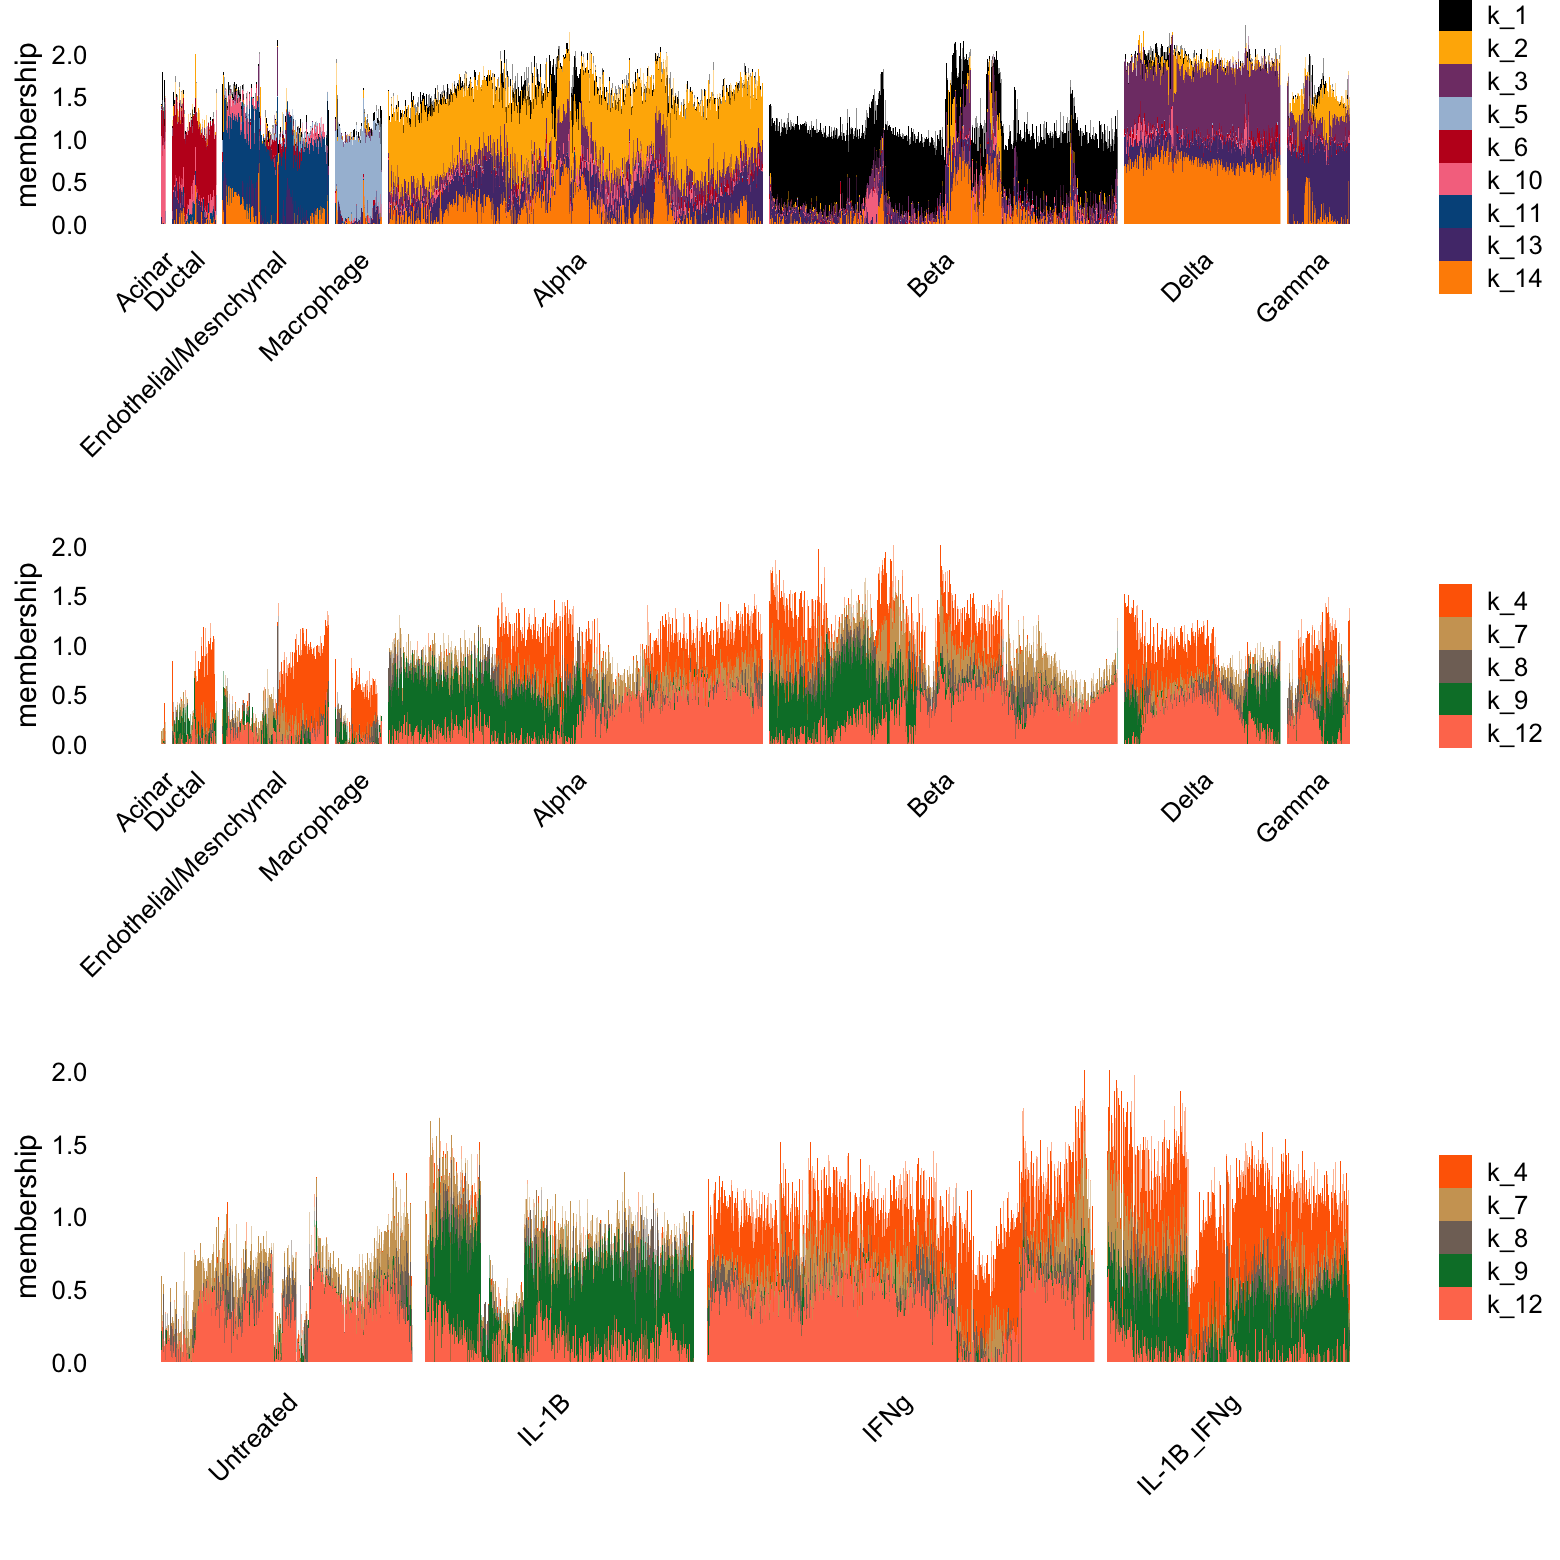
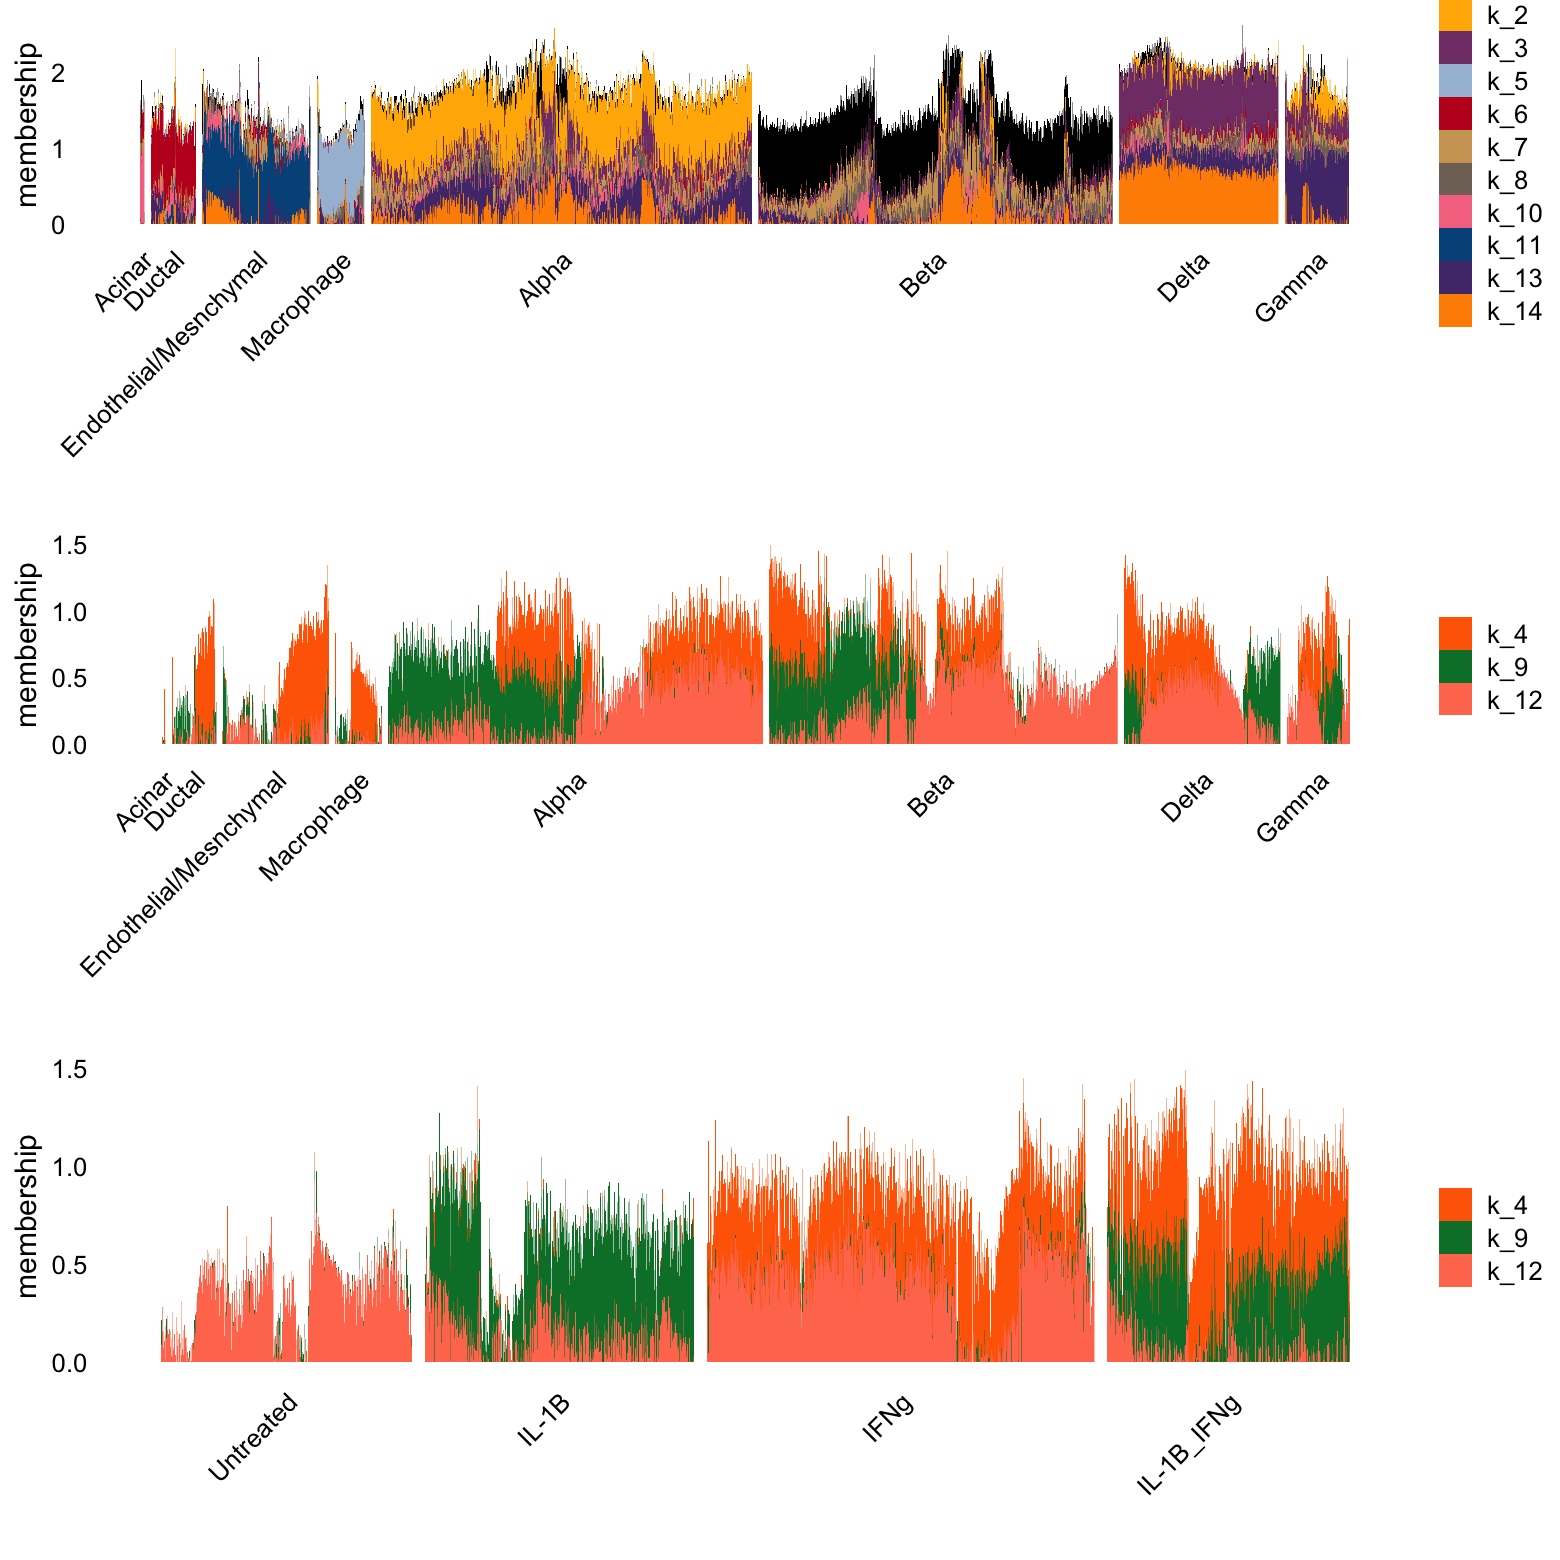
changed some factor assignments

diff --git a/docs/pancreas_cytokine_mf_comparison.html b/docs/pancreas_cytokine_mf_comparison.html
@@ -436,15 +436,15 @@ project makes it easier to run your code on other machines.</p>
 <div class="panel panel-default">
 <div class="panel-heading">
 <p class="panel-title">
-<a data-toggle="collapse" data-parent="#workflowr-checks" href="#strongRepositoryversionstrongahrefhttpsgithubcomstephenslabsinglecelljamboreetreeeb06be51c3f3b3bd8e3392eec83e519c30f6cc4btargetblankeb06be5a">
+<a data-toggle="collapse" data-parent="#workflowr-checks" href="#strongRepositoryversionstrongahrefhttpsgithubcomstephenslabsinglecelljamboreetreebd435d9166c4b46a2bd5a95fa79cbad023d63f61targetblankbd435d9a">
 <span class="glyphicon glyphicon-ok text-success"
 aria-hidden="true"></span> <strong>Repository version:</strong>
-<a href="https://github.com/stephenslab/single-cell-jamboree/tree/eb06be51c3f3b3bd8e3392eec83e519c30f6cc4b" target="_blank">eb06be5</a>
+<a href="https://github.com/stephenslab/single-cell-jamboree/tree/bd435d9166c4b46a2bd5a95fa79cbad023d63f61" target="_blank">bd435d9</a>
 </a>
 </p>
 </div>
 <div
[2 lines of base64/hex data omitted]
 class="panel-collapse collapse">
 <div class="panel-body">
 <p>
@@ -454,7 +454,7 @@ reproducibility.
 </p>
 <p>
 The results in this page were generated with repository version
-<a href="https://github.com/stephenslab/single-cell-jamboree/tree/eb06be51c3f3b3bd8e3392eec83e519c30f6cc4b" target="_blank">eb06be5</a>.
+<a href="https://github.com/stephenslab/single-cell-jamboree/tree/bd435d9166c4b46a2bd5a95fa79cbad023d63f61" target="_blank">bd435d9</a>.
 See the <em>Past versions</em> tab to see a history of the changes made
 to the R Markdown and HTML files.
 </p>
@@ -525,6 +525,40 @@ Message
 </tr>
 </thead>
 <tbody>
+<tr>
+<td>
+Rmd
+</td>
+<td>
+<a href="https://github.com/stephenslab/single-cell-jamboree/blob/bd435d9166c4b46a2bd5a95fa79cbad023d63f61/analysis/pancreas_cytokine_mf_comparison.Rmd" target="_blank">bd435d9</a>
+</td>
+<td>
+Eric Weine
+</td>
+<td>
+2025-07-07
+</td>
+<td>
+added K = 14 fits
+</td>
+</tr>
+<tr>
+<td>
+html
+</td>
+<td>
+<a href="https://rawcdn.githack.com/stephenslab/single-cell-jamboree/bd435d9166c4b46a2bd5a95fa79cbad023d63f61/docs/pancreas_cytokine_mf_comparison.html" target="_blank">bd435d9</a>
+</td>
+<td>
+Eric Weine
+</td>
+<td>
+2025-07-07
+</td>
+<td>
+added K = 14 fits
+</td>
+</tr>
 <tr>
 <td>
 Rmd
@@ -776,12 +810,12 @@ i &lt;- c(sample(which(clusters == &quot;Beta&quot;),800),
        which(clusters != &quot;Beta&quot;))
 L &lt;- poisson2multinom(tm_k12)$L
 p1 &lt;- structure_plot(L[i,],grouping = clusters[i],gap = 15,n = Inf,
-                     topics = celltype_topics,colors = topic_colors)    
+                     topics = celltype_topics,colors = topic_colors)$plot   
 p2 &lt;- structure_plot(L[i,],grouping = clusters[i],gap = 15,n = Inf,
-                     topics = other_topics,colors = topic_colors)
+                     topics = other_topics,colors = topic_colors)$plot
 p3 &lt;- structure_plot(L[i,],grouping = conditions[i],gap = 20,n = Inf,
-                     topics = other_topics,colors = topic_colors)
-plot_grid(p1$plot,p2$plot,p3$plot,nrow = 3,ncol = 1,rel_heights = c(3.3,3,2))</code></pre>
+                     topics = other_topics,colors = topic_colors)$plot
+plot_grid(p1,p2,p3,nrow = 3,ncol = 1,rel_heights = c(3.3,3,2))</code></pre>
 <p><img src="figure/pancreas_cytokine_mf_comparison.Rmd/structure-plot-topic-model-k12-1.png" width="780" style="display: block; margin: auto;" /></p>
 <p>
 <button type="button" class="btn btn-default btn-xs btn-workflowr btn-workflowr-fig" data-toggle="collapse" data-target="#fig-structure-plot-topic-model-k12-1">
@@ -805,6 +839,17 @@ Date
 </tr>
 </thead>
 <tbody>
+<tr>
+<td>
+<a href="https://github.com/stephenslab/single-cell-jamboree/blob/bd435d9166c4b46a2bd5a95fa79cbad023d63f61/docs/figure/pancreas_cytokine_mf_comparison.Rmd/structure-plot-topic-model-k12-1.png" target="_blank">bd435d9</a>
+</td>
+<td>
+Eric Weine
+</td>
+<td>
+2025-07-07
+</td>
+</tr>
 <tr>
 <td>
 <a href="https://github.com/stephenslab/single-cell-jamboree/blob/3cf2b9b050e00d8ea58e362a1994724debd691ca/docs/figure/pancreas_cytokine_mf_comparison.Rmd/structure-plot-topic-model-k12-1.png" target="_blank">3cf2b9b</a>
@@ -848,13 +893,50 @@ i &lt;- c(sample(which(clusters == &quot;Beta&quot;),800),
        which(clusters != &quot;Beta&quot;))
 L &lt;- poisson2multinom(tm_k14)$L
 p1 &lt;- structure_plot(L[i,],grouping = clusters[i],gap = 15,n = Inf,
-                     topics = celltype_topics)  
+                     topics = celltype_topics)$plot 
 p2 &lt;- structure_plot(L[i,],grouping = clusters[i],gap = 15,n = Inf,
-                     topics = other_topics)
+                     topics = other_topics)$plot
 p3 &lt;- structure_plot(L[i,],grouping = conditions[i],gap = 20,n = Inf,
-                     topics = other_topics)
-plot_grid(p1$plot,p2$plot,p3$plot,nrow = 3,ncol = 1,rel_heights = c(3.3,3,2))</code></pre>
+                     topics = other_topics)$plot
+plot_grid(p1,p2,p3,nrow = 3,ncol = 1,rel_heights = c(3.3,3,2))</code></pre>
 <p><img src="figure/pancreas_cytokine_mf_comparison.Rmd/structure-plot-topic-model-k14-1.png" width="780" style="display: block; margin: auto;" /></p>
+<p>
+<button type="button" class="btn btn-default btn-xs btn-workflowr btn-workflowr-fig" data-toggle="collapse" data-target="#fig-structure-plot-topic-model-k14-1">
+Past versions of structure-plot-topic-model-k14-1.png
+</button>
+</p>
+<div id="fig-structure-plot-topic-model-k14-1" class="collapse">
+<div class="table-responsive">
+<table class="table table-condensed table-hover">
+<thead>
+<tr>
+<th>
+Version
+</th>
+<th>
+Author
+</th>
+<th>
+Date
+</th>
+</tr>
+</thead>
+<tbody>
+<tr>
+<td>
+<a href="https://github.com/stephenslab/single-cell-jamboree/blob/bd435d9166c4b46a2bd5a95fa79cbad023d63f61/docs/figure/pancreas_cytokine_mf_comparison.Rmd/structure-plot-topic-model-k14-1.png" target="_blank">bd435d9</a>
+</td>
+<td>
+Eric Weine
+</td>
+<td>
+2025-07-07
+</td>
+</tr>
+</tbody>
+</table>
+</div>
+</div>
 </div>
 <div id="poisson-log1p-nmf-k-12" class="section level2">
 <h2>Poisson log1p NMF, K = 12</h2>
@@ -866,7 +948,7 @@ class="math inline">\(K =
 <pre class="r"><code>scale_cols &lt;- function (A, b)
   t(t(A) * b)
 set.seed(1)
-celltype_topics = c(1,2,3,5,6,7,8,9)
+celltype_topics = c(1,2,3,5,6,7,8,9,12)
 topic_colors &lt;- fastTopics:::kelly()[c(2:12,14)]
 L &lt;- log1p_k12$LL
 d &lt;- apply(L,2,max)
@@ -875,10 +957,10 @@ p1 &lt;- structure_plot(L[i,],grouping = clusters[i],gap = 15,n = Inf,
                      topics = celltype_topics,colors = topic_colors)$plot +
   labs(y = &quot;membership&quot;,fill = &quot;&quot;)                   
 p2 &lt;- structure_plot(L[i,],grouping = clusters[i],gap = 15,n = Inf,
-                     topics = c(4,10,11,12),colors = topic_colors)$plot +
+                     topics = c(4,10,11),colors = topic_colors)$plot +
   labs(y = &quot;membership&quot;,fill = &quot;&quot;)
 p3 &lt;- structure_plot(L[i,],grouping = conditions[i],gap = 30,n = Inf,
-                     topics = c(4,10,11,12),colors = topic_colors)$plot +
+                     topics = c(4,10,11),colors = topic_colors)$plot +
   labs(y = &quot;membership&quot;,fill = &quot;&quot;)                   
 plot_grid(p1,p2,p3,nrow = 3,ncol = 1)</code></pre>
 <p><img src="figure/pancreas_cytokine_mf_comparison.Rmd/structure-plot-log1p-nmf-k12-1.png" width="780" style="display: block; margin: auto;" /></p>
@@ -904,6 +986,17 @@ Date
 </tr>
 </thead>
 <tbody>
+<tr>
+<td>
+<a href="https://github.com/stephenslab/single-cell-jamboree/blob/bd435d9166c4b46a2bd5a95fa79cbad023d63f61/docs/figure/pancreas_cytokine_mf_comparison.Rmd/structure-plot-log1p-nmf-k12-1.png" target="_blank">bd435d9</a>
+</td>
+<td>
+Eric Weine
+</td>
+<td>
+2025-07-07
+</td>
+</tr>
 <tr>
 <td>
 <a href="https://github.com/stephenslab/single-cell-jamboree/blob/3cf2b9b050e00d8ea58e362a1994724debd691ca/docs/figure/pancreas_cytokine_mf_comparison.Rmd/structure-plot-log1p-nmf-k12-1.png" target="_blank">3cf2b9b</a>
@@ -940,8 +1033,8 @@ would do.</p>
 <pre class="r"><code>scale_cols &lt;- function (A, b)
   t(t(A) * b)
 set.seed(1)
-celltype_topics = c(1,2,3,5,6,10,11,13,14)
-other_topics &lt;- c(4,7,8,9,12)
+celltype_topics = c(1,2,3,5,6,7,8,10,11,13,14)
+other_topics &lt;- c(4,9,12)
 L &lt;- log1p_k14$LL
 d &lt;- apply(L,2,max)
 L &lt;- scale_cols(L,1/d)
@@ -956,6 +1049,43 @@ p3 &lt;- structure_plot(L[i,],grouping = conditions[i],gap = 30,n = Inf,
   labs(y = &quot;membership&quot;,fill = &quot;&quot;)                   
 plot_grid(p1,p2,p3,nrow = 3,ncol = 1)</code></pre>
 <p><img src="figure/pancreas_cytokine_mf_comparison.Rmd/structure-plot-log1p-nmf-k14-1.png" width="780" style="display: block; margin: auto;" /></p>
+<p>
+<button type="button" class="btn btn-default btn-xs btn-workflowr btn-workflowr-fig" data-toggle="collapse" data-target="#fig-structure-plot-log1p-nmf-k14-1">
+Past versions of structure-plot-log1p-nmf-k14-1.png
+</button>
+</p>
+<div id="fig-structure-plot-log1p-nmf-k14-1" class="collapse">
+<div class="table-responsive">
+<table class="table table-condensed table-hover">
+<thead>
+<tr>
+<th>
+Version
+</th>
+<th>
+Author
+</th>
+<th>
+Date
+</th>
+</tr>
+</thead>
+<tbody>
+<tr>
+<td>
+<a href="https://github.com/stephenslab/single-cell-jamboree/blob/bd435d9166c4b46a2bd5a95fa79cbad023d63f61/docs/figure/pancreas_cytokine_mf_comparison.Rmd/structure-plot-log1p-nmf-k14-1.png" target="_blank">bd435d9</a>
+</td>
+<td>
+Eric Weine
+</td>
+<td>
+2025-07-07
+</td>
+</tr>
+</tbody>
+</table>
+</div>
+</div>
 <p>NOTE: UPDATE THIS TEXT. The pockets of purple and yellow in the beta
 cell cluster may represent cells that were misclassified (though it is
 very hard to tell). Here, it appears that the pink factor is specific to
